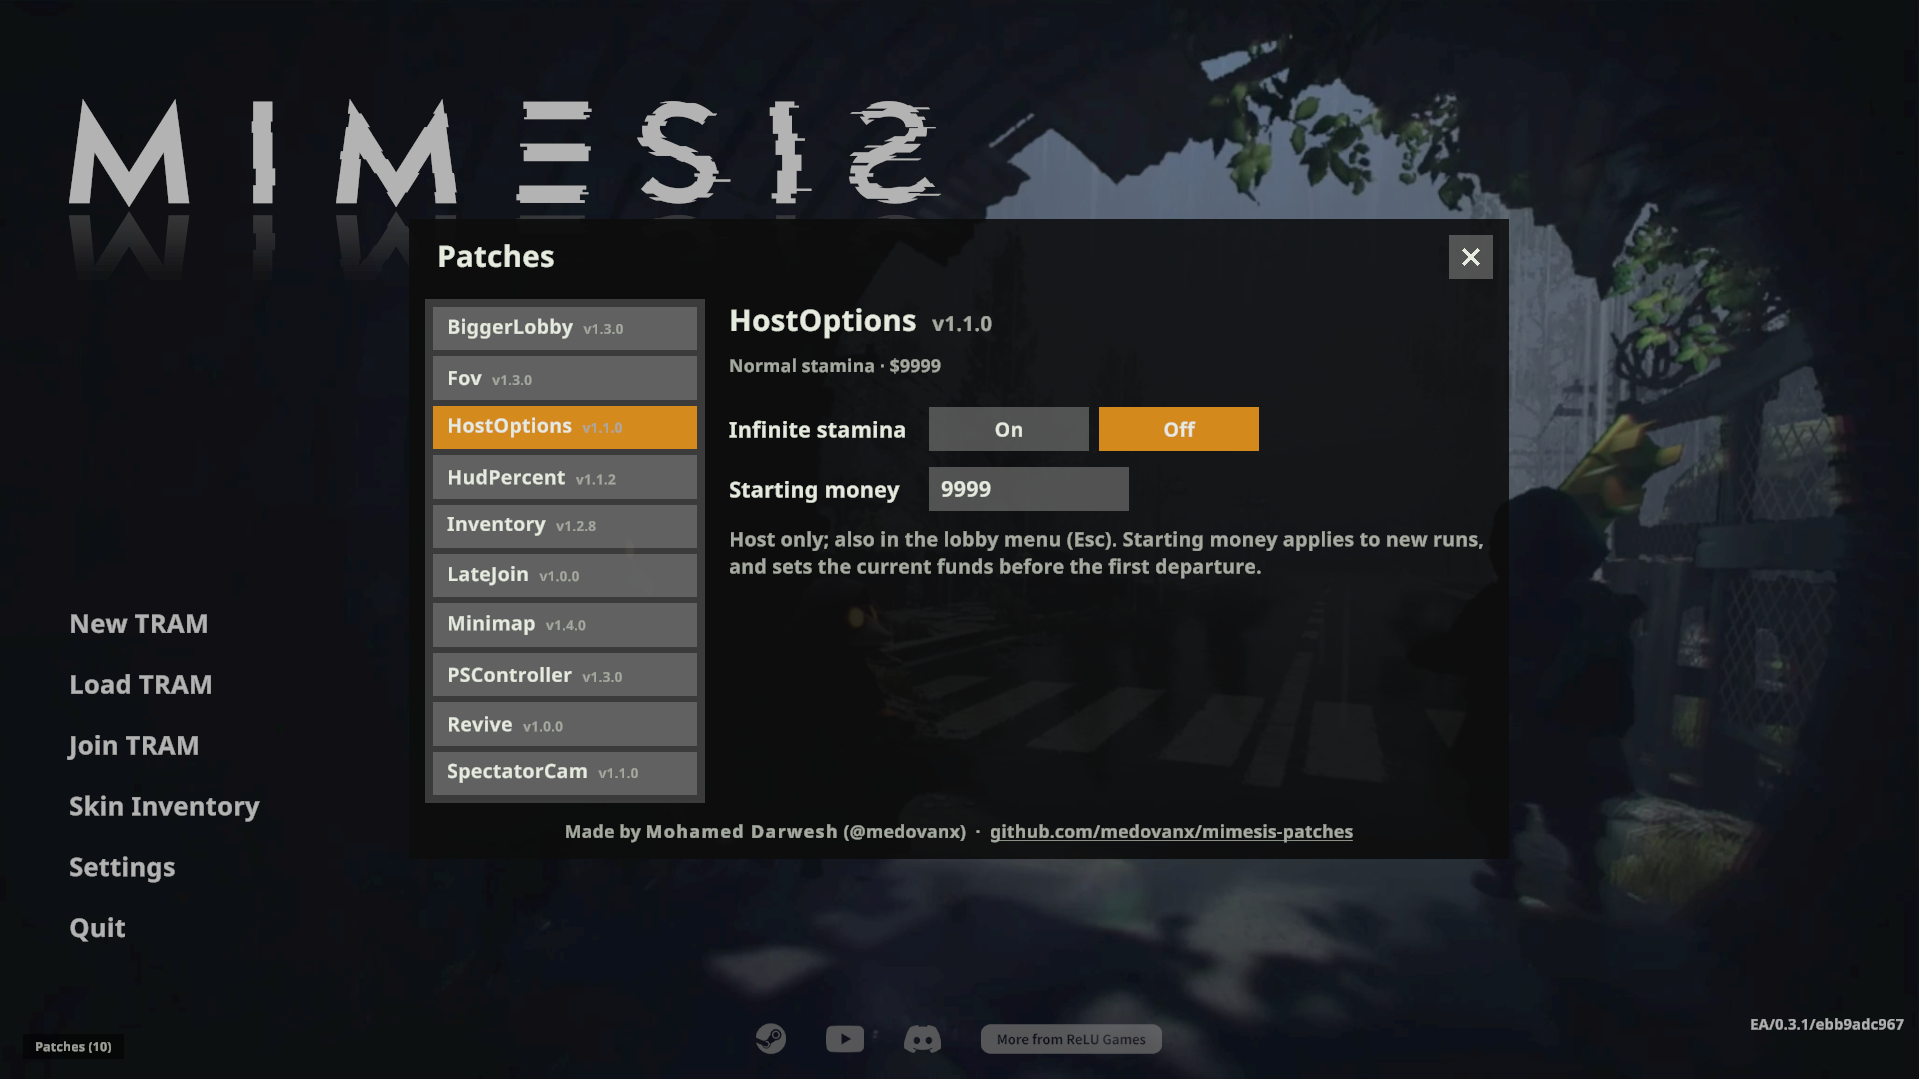
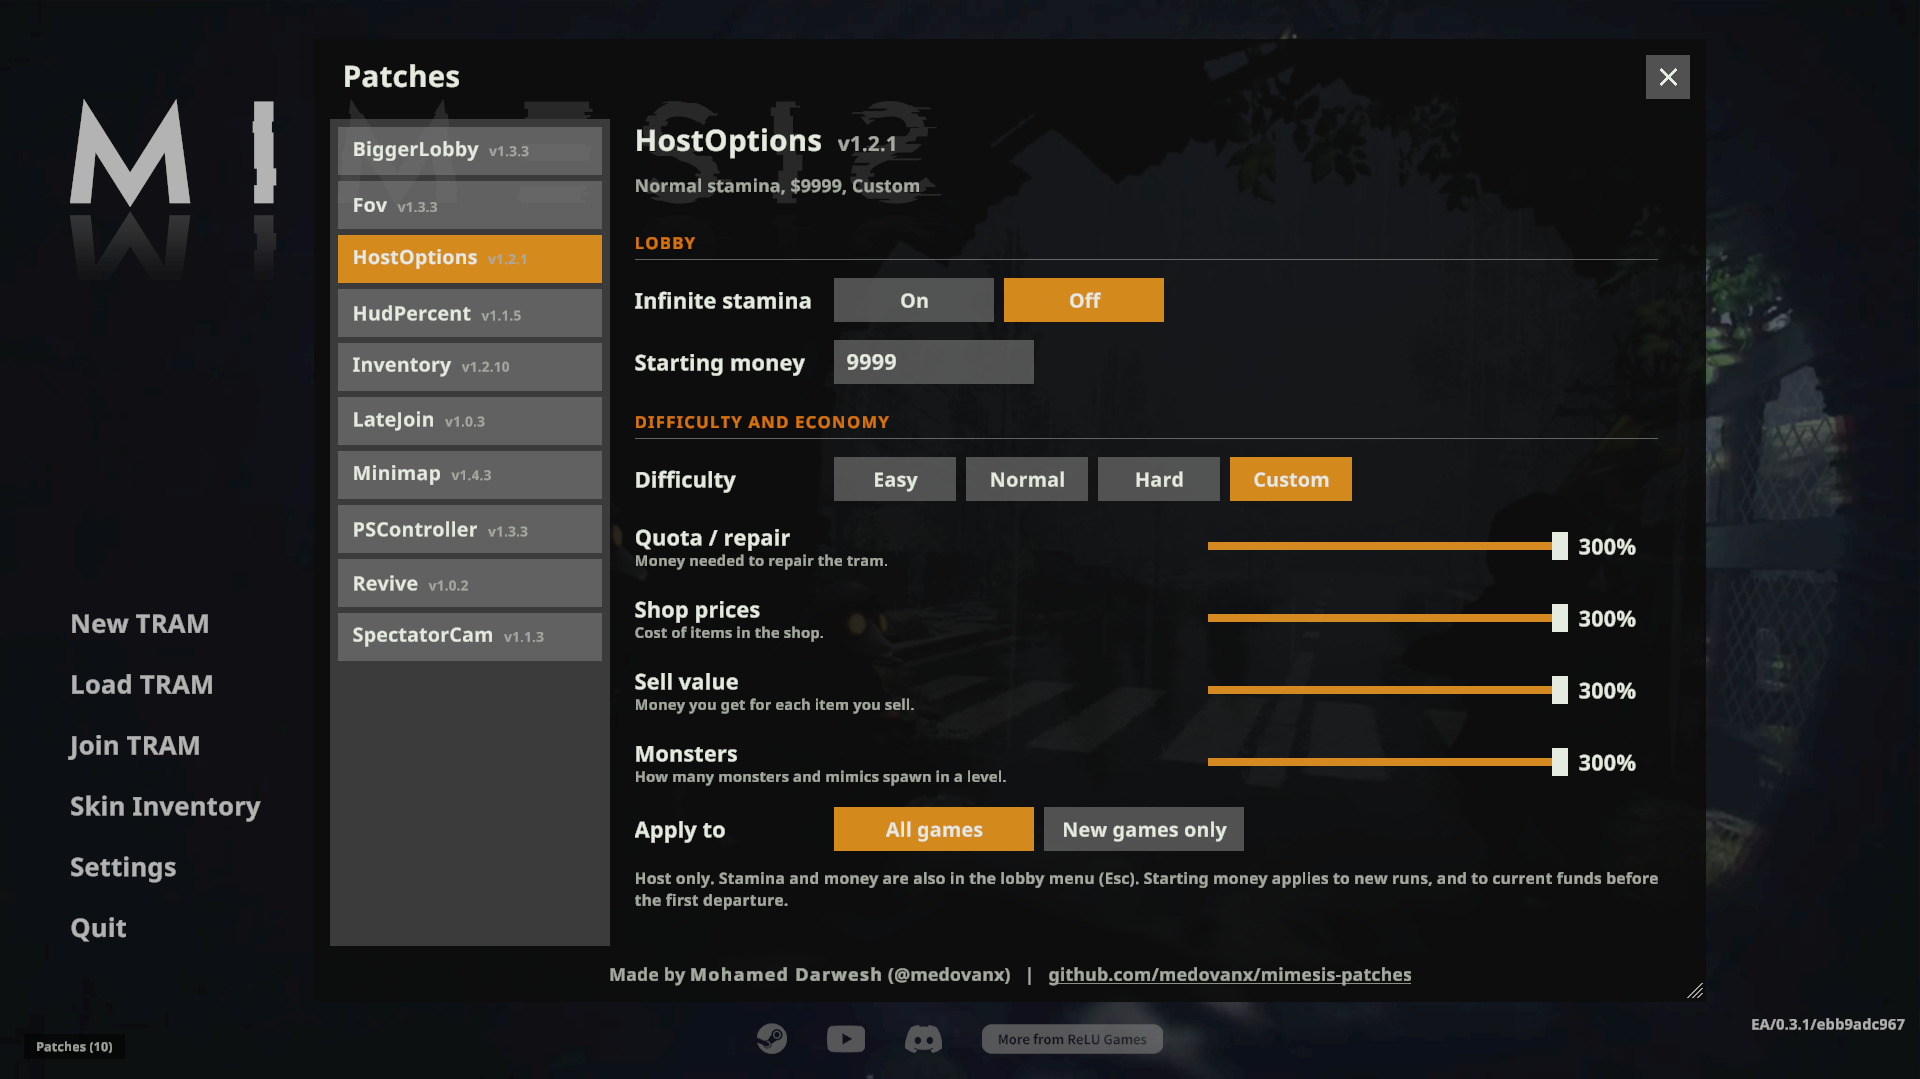
Release: movable and resizable Patches window; HostOptions settings screenshot

diff --git a/README.md b/README.md
@@ -17,16 +17,16 @@ Each patch also has its own patcher exe if you prefer: close the game, put the e
 
 | Patch | Version | Host | Player | What it does |
 |---|---|---|---|---|
-| [BiggerLobby](BiggerLobby/) | 1.3.3 | Yes | No | 10-player lobbies, with UI for 10 and difficulty that scales with player count |
-| [PSController](PSController/) | 1.3.3 | Optional | Optional | PlayStation button icons instead of Xbox ones |
-| [SpectatorCam](SpectatorCam/) | 1.1.3 | Optional | Optional | Free spectator camera, limited to the area around the player you're watching |
-| [Minimap](Minimap/) | 1.4.3 | Optional | Optional | Minimap: explored or full map, plain or graphic, optional players/monsters/items |
-| [HostOptions](HostOptions/) | 1.2.1 | Yes | No | Lobby options: infinite stamina, starting money, difficulty and economy |
-| [Inventory](Inventory/) | 1.2.10 | Yes | Yes | 1-8 inventory slots (2 × 4 grid), set by the host |
-| [LateJoin](LateJoin/) | 1.0.3 | Yes | Yes | Join a game in progress; you enter at the tram when the team returns |
-| [Fov](Fov/) | 1.3.3 | Optional | Optional | Field of view setting; [ and ] change it in game |
-| [Revive](Revive/) | 1.0.2 | Yes | No | Stand next to a dead teammate to revive them |
-| [HudPercent](HudPercent/) | 1.1.5 | Optional | Optional | Health and radiation percentages next to the HUD bars |
+| [BiggerLobby](BiggerLobby/) | 1.3.4 | Yes | No | 10-player lobbies, with UI for 10 and difficulty that scales with player count |
+| [PSController](PSController/) | 1.3.4 | Optional | Optional | PlayStation button icons instead of Xbox ones |
+| [SpectatorCam](SpectatorCam/) | 1.1.4 | Optional | Optional | Free spectator camera, limited to the area around the player you're watching |
+| [Minimap](Minimap/) | 1.4.4 | Optional | Optional | Minimap: explored or full map, plain or graphic, optional players/monsters/items |
+| [HostOptions](HostOptions/) | 1.2.2 | Yes | No | Lobby options: infinite stamina, starting money, difficulty and economy |
+| [Inventory](Inventory/) | 1.2.11 | Yes | Yes | 1-8 inventory slots (2 × 4 grid), set by the host |
+| [LateJoin](LateJoin/) | 1.0.4 | Yes | Yes | Join a game in progress; you enter at the tram when the team returns |
+| [Fov](Fov/) | 1.3.4 | Optional | Optional | Field of view setting; [ and ] change it in game |
+| [Revive](Revive/) | 1.0.3 | Yes | No | Stand next to a dead teammate to revive them |
+| [HudPercent](HudPercent/) | 1.1.6 | Optional | Optional | Health and radiation percentages next to the HUD bars |
 
 **Host / Player**: who needs the patch. *Yes* = required, *No* = not needed, *Optional* = personal feature, install it if you want it.
 

diff --git a/PSController/CHANGELOG.md b/PSController/CHANGELOG.md
@@ -1,5 +1,8 @@
 # PSController changelog
 
+## 1.3.4
+- Patches window: move it by the title bar and resize it from any edge or corner (remembered). Download progress stays on one line.
+
 ## 1.3.3
 - Patches window: Update all in the title bar; updates ask in a popup and show download progress, speed and time left.
 

diff --git a/SpectatorCam/CHANGELOG.md b/SpectatorCam/CHANGELOG.md
@@ -1,5 +1,8 @@
 # SpectatorCam changelog
 
+## 1.1.4
+- Patches window: move it by the title bar and resize it from any edge or corner (remembered). Download progress stays on one line.
+
 ## 1.1.3
 - Patches window: Update all in the title bar; updates ask in a popup and show download progress, speed and time left.
 

diff --git a/BiggerLobby/CHANGELOG.md b/BiggerLobby/CHANGELOG.md
@@ -1,5 +1,8 @@
 # BiggerLobby changelog
 
+## 1.3.4
+- Patches window: move it by the title bar and resize it from any edge or corner (remembered). Download progress stays on one line.
+
 ## 1.3.3
 - Patches window: Update all in the title bar; updates ask in a popup and show download progress, speed and time left.
 

diff --git a/HostOptions/CHANGELOG.md b/HostOptions/CHANGELOG.md
@@ -1,5 +1,8 @@
 # HostOptions changelog
 
+## 1.2.2
+- Patches window: move it by the title bar and resize it from any edge or corner (remembered). Download progress stays on one line.
+
 ## 1.2.1
 - Patches window: Update all in the title bar; updates ask in a popup and show download progress, speed and time left.
 

diff --git a/Inventory/CHANGELOG.md b/Inventory/CHANGELOG.md
@@ -1,5 +1,8 @@
 # Inventory changelog
 
+## 1.2.11
+- Patches window: move it by the title bar and resize it from any edge or corner (remembered). Download progress stays on one line.
+
 ## 1.2.10
 - Patches window: Update all in the title bar; updates ask in a popup and show download progress, speed and time left.
 

diff --git a/HudPercent/CHANGELOG.md b/HudPercent/CHANGELOG.md
@@ -1,5 +1,8 @@
 # HudPercent changelog
 
+## 1.1.6
+- Patches window: move it by the title bar and resize it from any edge or corner (remembered). Download progress stays on one line.
+
 ## 1.1.5
 - Patches window: Update all in the title bar; updates ask in a popup and show download progress, speed and time left.
 

diff --git a/LateJoin/CHANGELOG.md b/LateJoin/CHANGELOG.md
@@ -1,5 +1,8 @@
 # LateJoin changelog
 
+## 1.0.4
+- Patches window: move it by the title bar and resize it from any edge or corner (remembered). Download progress stays on one line.
+
 ## 1.0.3
 - Patches window: Update all in the title bar; updates ask in a popup and show download progress, speed and time left.
 

diff --git a/Minimap/CHANGELOG.md b/Minimap/CHANGELOG.md
@@ -1,5 +1,8 @@
 # Minimap changelog
 
+## 1.4.4
+- Patches window: move it by the title bar and resize it from any edge or corner (remembered). Download progress stays on one line.
+
 ## 1.4.3
 - Patches window: Update all in the title bar; updates ask in a popup and show download progress, speed and time left.
 

diff --git a/Revive/CHANGELOG.md b/Revive/CHANGELOG.md
@@ -1,5 +1,8 @@
 # Revive changelog
 
+## 1.0.3
+- Patches window: move it by the title bar and resize it from any edge or corner (remembered). Download progress stays on one line.
+
 ## 1.0.2
 - Patches window: Update all in the title bar; updates ask in a popup and show download progress, speed and time left.
 

diff --git a/Fov/CHANGELOG.md b/Fov/CHANGELOG.md
@@ -1,5 +1,8 @@
 # Fov changelog
 
+## 1.3.4
+- Patches window: move it by the title bar and resize it from any edge or corner (remembered). Download progress stays on one line.
+
 ## 1.3.3
 - Test release for the in-game updater (no changes).
 

diff --git a/LateJoin/README.md b/LateJoin/README.md
@@ -1,6 +1,6 @@
 # LateJoin
 
-**Version 1.0.3**
+**Version 1.0.4**
 
 Lets friends **join a game that's already running**. If the team is in a level, you wait on a message and join at the tram when they return, then play from the next stage.
 
